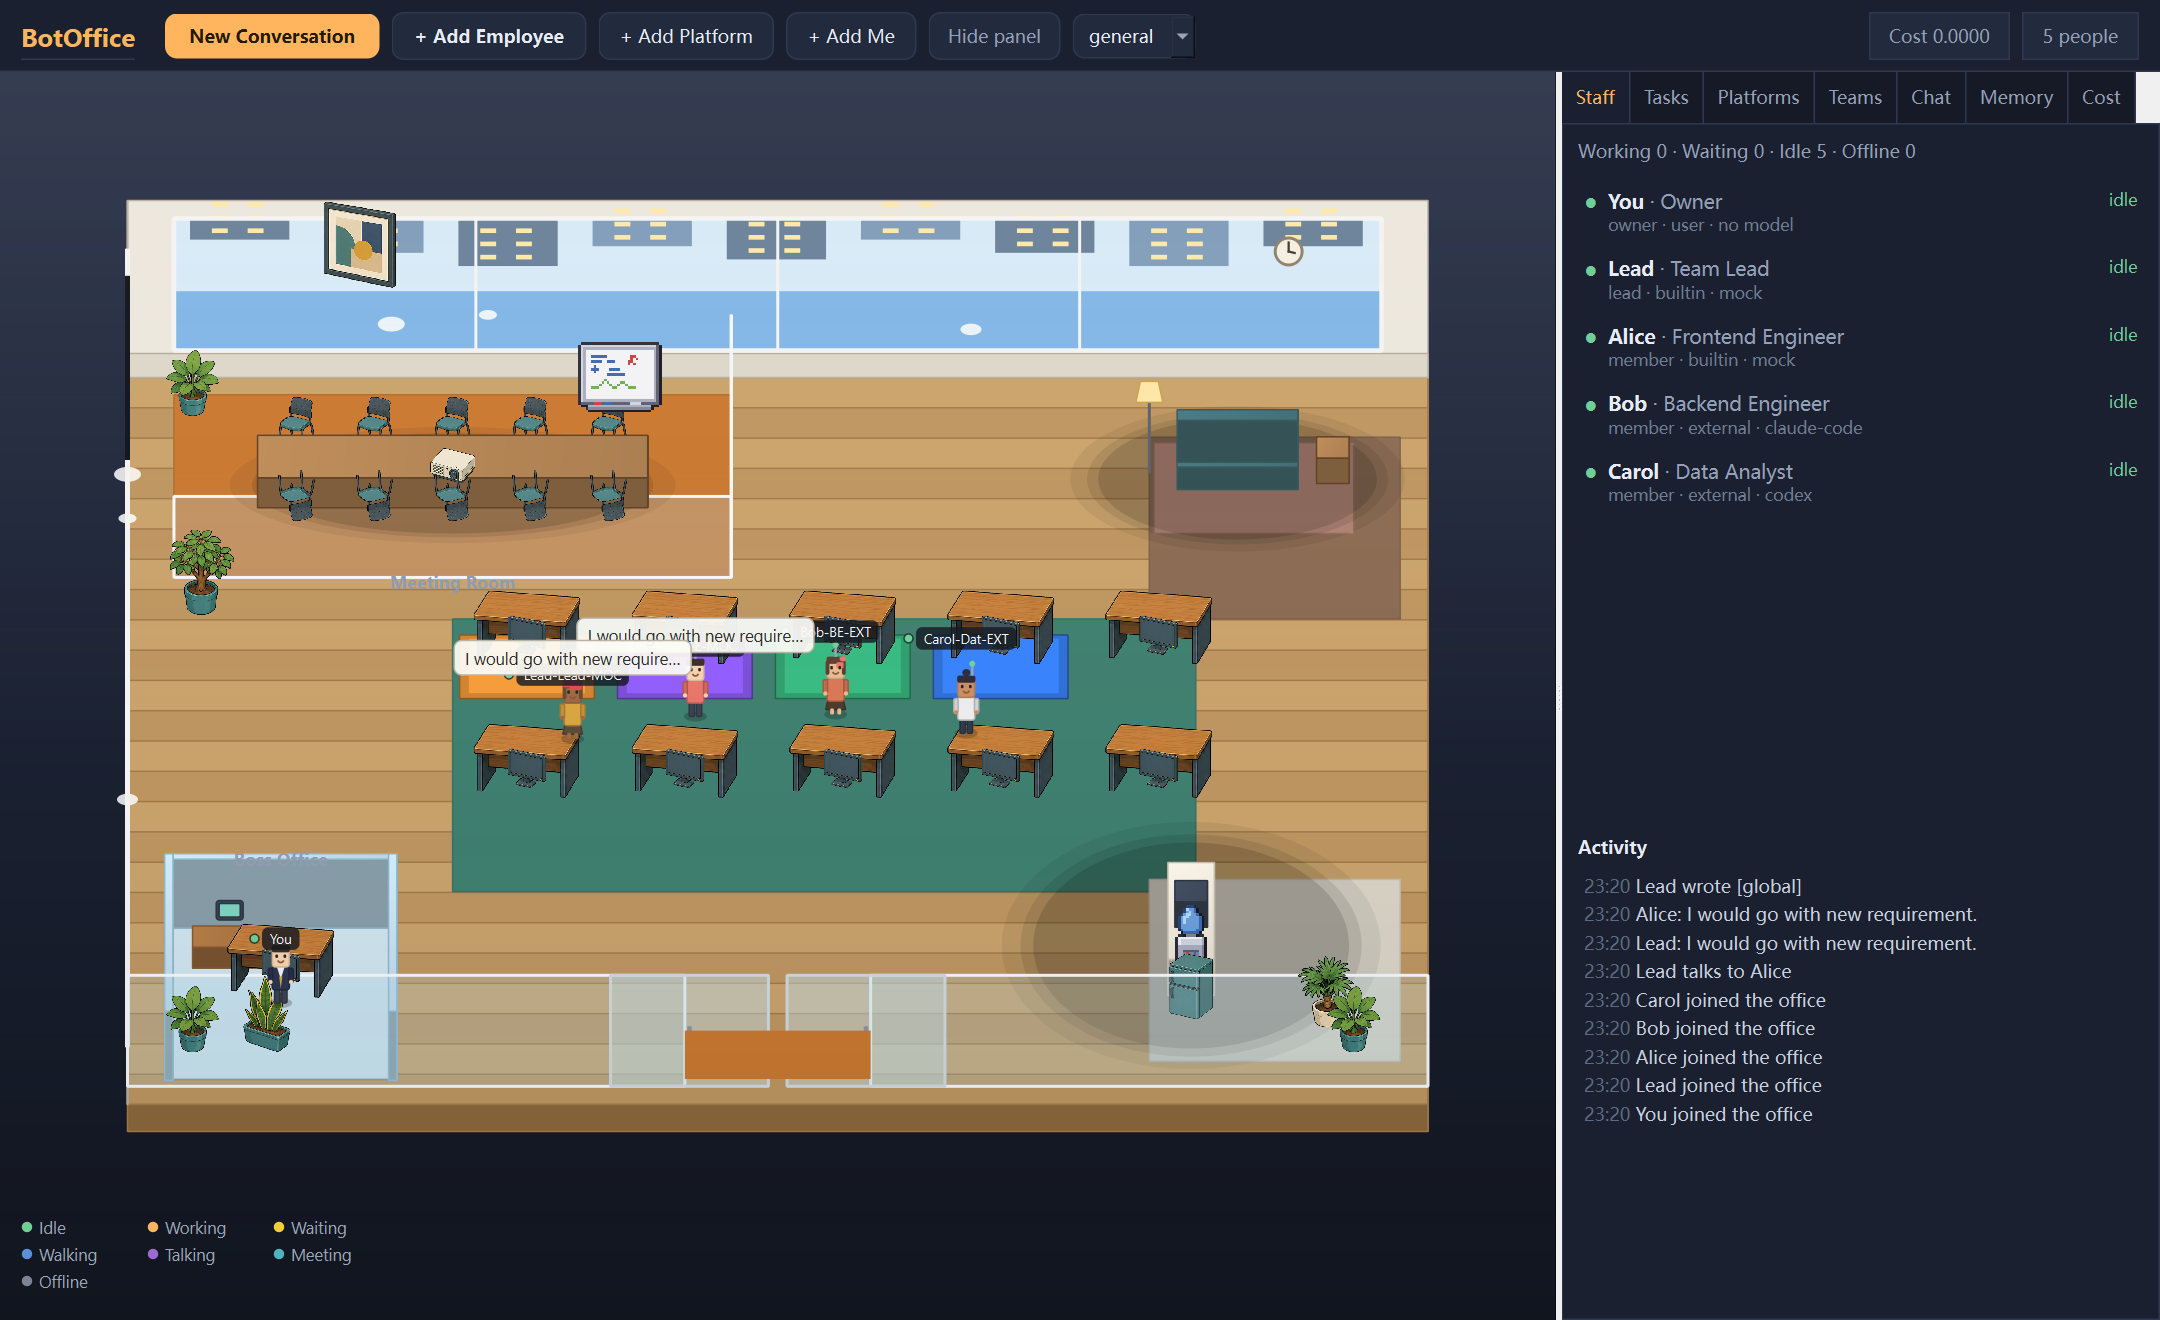
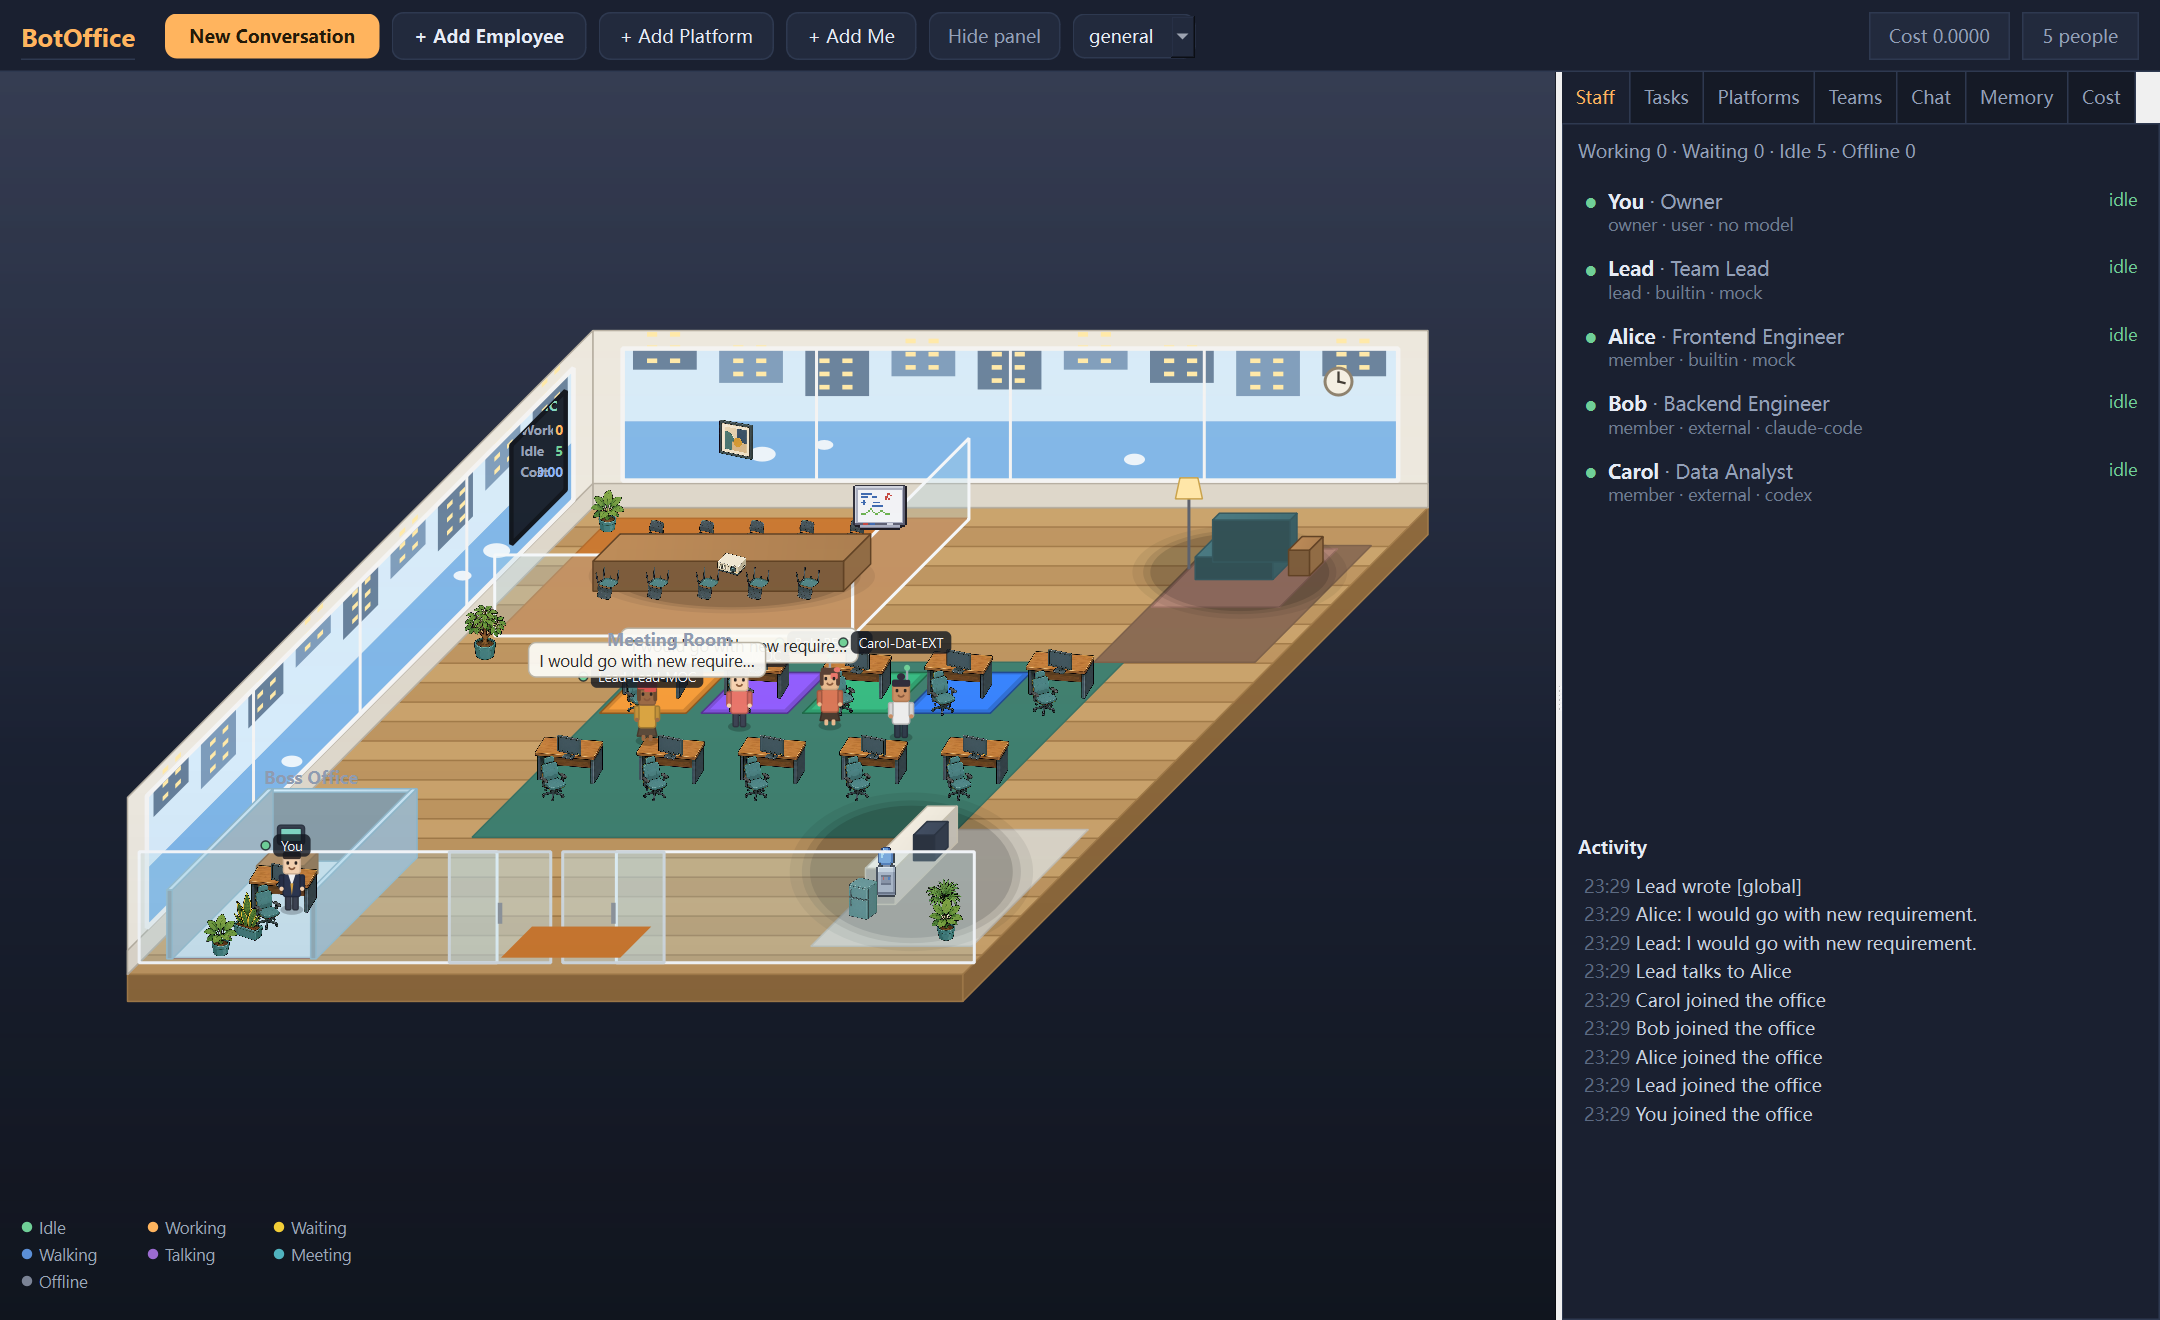
Shear the floor at 45 degrees and seat the props properly
- the oblique shear now matches the 45-degree angle the reference uses
- meeting chairs rotate 180 degrees instead of being mirrored upside down
- desks sit further down on the rug and get an office chair in front
- the monitor is placed from the desk sprite's own geometry, so it lands
  on the surface instead of near it
- the picture hangs lower on the wall, and the plants no longer overlap

diff --git a/botoffice/gui/scene.py b/botoffice/gui/scene.py
@@ -42,7 +42,7 @@ BASE_TILE_W = 46.0
 BASE_TILE_H = 30.0
 # How far the floor shifts sideways with depth. This is what makes the room
 # read as an angled 3/4 view instead of a flat top-down plan.
-OBLIQUE_SHEAR = 0.0
+OBLIQUE_SHEAR = -0.65
 # The whole floor plane is rotated counter-clockwise a little, while the
 # furniture sprites stay upright.
 ROOM_ROTATION = math.radians(0.0)
@@ -436,13 +436,28 @@ class OfficeScene:
         if pixmap is None:
             return False
         if flip:
-            pixmap = pixmap.transformed(QTransform().scale(1, -1))
+            pixmap = pixmap.transformed(QTransform().rotate(180))
         target_w = max(1.0, world_width * self.tile_w)
         scale = target_w / pixmap.width()
         target_h = pixmap.height() * scale
         base = self.to_screen(x, z, height)
         painter.drawPixmap(
             QRectF(base.x() - target_w / 2, base.y() - target_h, target_w, target_h),
+            pixmap,
+            QRectF(pixmap.rect()),
+        )
+        return True
+
+    def _sprite_at(self, painter: QPainter, name: str, centre_x: float,
+                   bottom_y: float, world_width: float) -> bool:
+        """Draw a sprite with its bottom centre at a screen point."""
+        pixmap = self.sprites.get(name)
+        if pixmap is None:
+            return False
+        target_w = max(1.0, world_width * self.tile_w)
+        target_h = pixmap.height() * (target_w / pixmap.width())
+        painter.drawPixmap(
+            QRectF(centre_x - target_w / 2, bottom_y - target_h, target_w, target_h),
             pixmap,
             QRectF(pixmap.rect()),
         )
@@ -535,12 +550,12 @@ class OfficeScene:
         self._sprite(painter, "tree", x0 + 1.6, z0 + 8.0, 1.6)
         self._sprite(painter, "plant_palm", x1 - 2.2, z1 - 2.4, 1.4)
         self._sprite(painter, "plant_snake", x0 + 3.0, z1 - 1.6, 1.2)
-        self._sprite(painter, "artwork", x0 + 5.0, z0 + 0.3, 1.8, height=62)
+        self._sprite(painter, "artwork", x0 + 5.0, z0 + 0.3, 1.3, height=34)
 
         for px, pz in (
             (x0 + 1.4, z0 + 1.4),
             (x1 - 1.6, z1 - 1.6),
-            (x0 + 1.4, z1 - 1.6),
+            (x0 + 2.6, z1 - 0.8),
         ):
             self._draw_plant(painter, px, pz)
 
@@ -661,13 +676,28 @@ class OfficeScene:
         if pixmap is None:
             return False
         if flip:
-            pixmap = pixmap.transformed(QTransform().scale(1, -1))
+            pixmap = pixmap.transformed(QTransform().rotate(180))
         target_w = max(1.0, world_width * self.tile_w)
         scale = target_w / pixmap.width()
         target_h = pixmap.height() * scale
         base = self.to_screen(x, z, height)
         painter.drawPixmap(
             QRectF(base.x() - target_w / 2, base.y() - target_h, target_w, target_h),
+            pixmap,
+            QRectF(pixmap.rect()),
+        )
+        return True
+
+    def _sprite_at(self, painter: QPainter, name: str, centre_x: float,
+                   bottom_y: float, world_width: float) -> bool:
+        """Draw a sprite with its bottom centre at a screen point."""
+        pixmap = self.sprites.get(name)
+        if pixmap is None:
+            return False
+        target_w = max(1.0, world_width * self.tile_w)
+        target_h = pixmap.height() * (target_w / pixmap.width())
+        painter.drawPixmap(
+            QRectF(centre_x - target_w / 2, bottom_y - target_h, target_w, target_h),
             pixmap,
             QRectF(pixmap.rect()),
         )
@@ -760,12 +790,12 @@ class OfficeScene:
         self._sprite(painter, "tree", x0 + 1.6, z0 + 8.0, 1.6)
         self._sprite(painter, "plant_palm", x1 - 2.2, z1 - 2.4, 1.4)
         self._sprite(painter, "plant_snake", x0 + 3.0, z1 - 1.6, 1.2)
-        self._sprite(painter, "artwork", x0 + 5.0, z0 + 0.3, 1.8, height=62)
+        self._sprite(painter, "artwork", x0 + 5.0, z0 + 0.3, 1.3, height=34)
 
         for px, pz in (
             (x0 + 1.4, z0 + 1.4),
             (x1 - 1.6, z1 - 1.6),
-            (x0 + 1.4, z1 - 1.6),
+            (x0 + 2.6, z1 - 0.8),
         ):
             self._draw_plant(painter, px, pz)
 
@@ -1211,8 +1241,15 @@ class OfficeScene:
             self._draw_desk(painter, item.x, item.z, item.owner)
 
     def _draw_desk(self, painter: QPainter, x: float, z: float, owner: str) -> None:
-        if self._sprite(painter, "desk", x, z + 0.1, 2.6):
-            self._sprite(painter, "monitor", x, z - 0.35, 0.95)
+        if self._sprite(painter, "desk", x, z + 0.45, 2.6):
+            desk_pixmap = self.sprites.get("desk")
+            base = self.to_screen(x, z + 0.45)
+            if desk_pixmap is not None:
+                target_w = 2.6 * self.tile_w
+                target_h = desk_pixmap.height() * (target_w / desk_pixmap.width())
+                surface = base.y() - target_h * 0.48
+                self._sprite_at(painter, "monitor", base.x(), surface, 0.95)
+            self._sprite(painter, "chair", x, z + 1.25, 1.1)
             return
         self._shadow(painter, x, z + 0.2, 2.2, 1.6)
 
